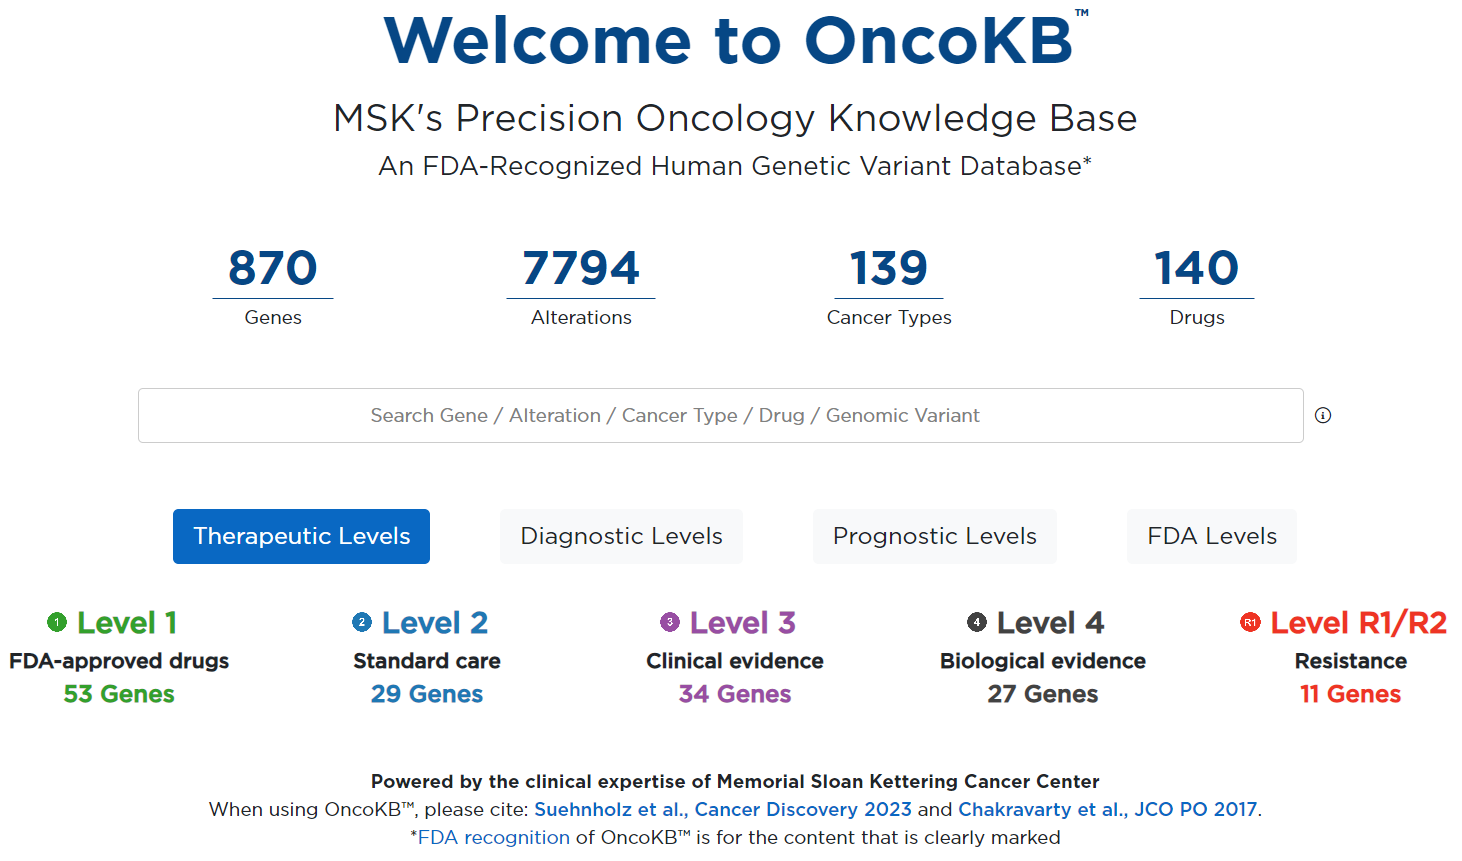
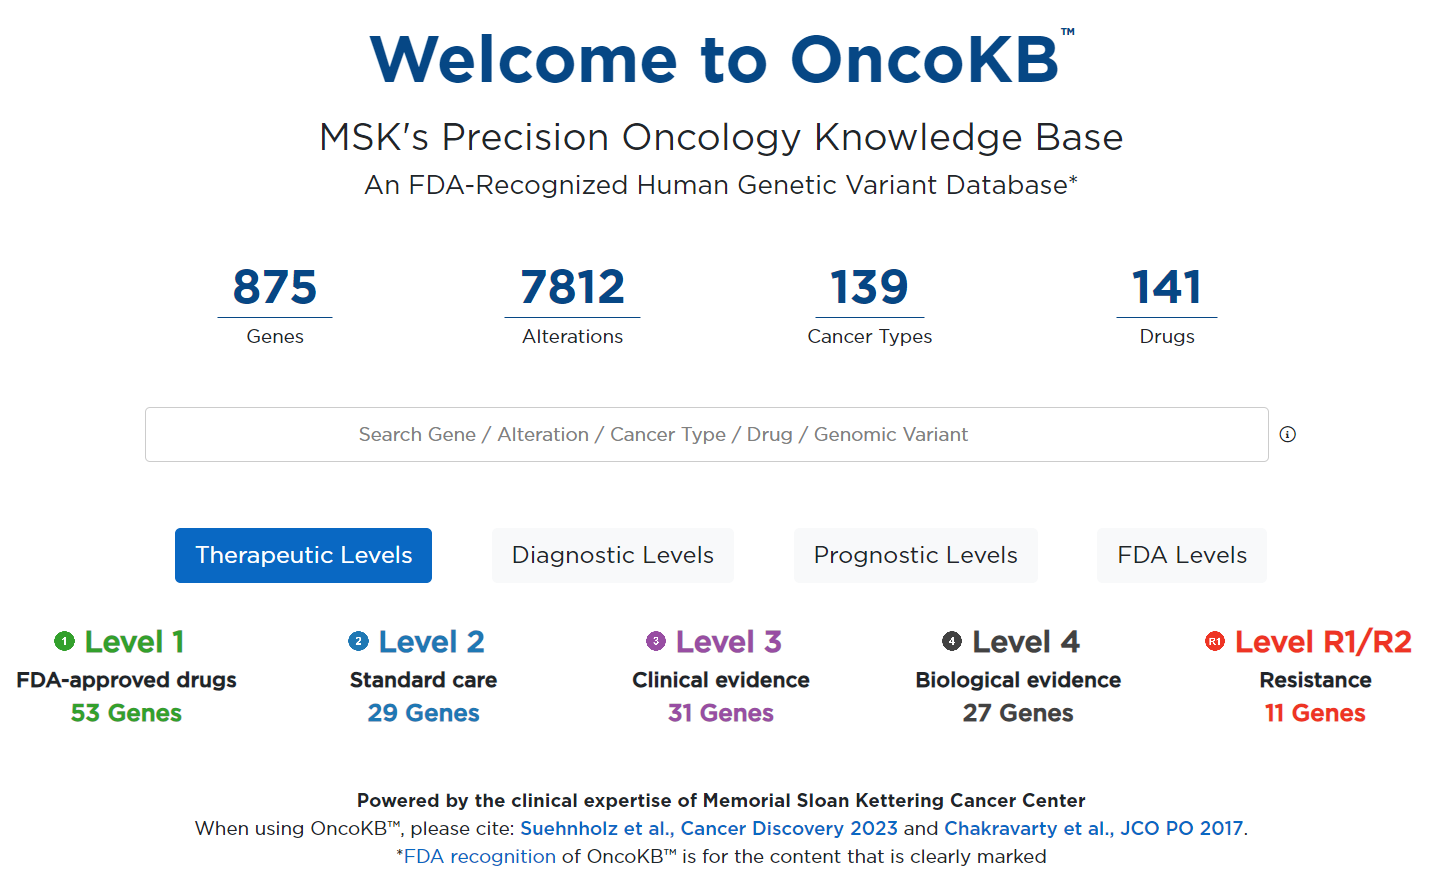
Update news

diff --git a/src/main/webapp/index.html b/src/main/webapp/index.html
@@ -15,7 +15,7 @@
     <meta name="twitter:site" content="@oncokb">
     <meta name="twitter:title" content="OncoKB™ - MSK's Precision Oncology Knowledge Base">
     <meta name="twitter:description" content="OncoKB™ is a precision oncology knowledge base developed at Memorial Sloan Kettering Cancer Center that contains biological and clinical information about genomic alterations in cancer.">
-    <meta name="twitter:image" content="https://www.oncokb.org/content/images/oncokb_summary.png?20240604">
+    <meta name="twitter:image" content="https://www.oncokb.org/content/images/oncokb_summary.png?20240702">
     <meta name="twitter:url" content="https://www.oncokb.org/">
 
     <meta property="og:site_name" content="OncoKB™">
@@ -23,7 +23,7 @@
     <meta property="og:url" content="https://www.oncokb.org/">
     <meta property="og:title" content="OncoKB™ - MSK's Precision Oncology Knowledge Base">
     <meta property="og:description" content="OncoKB™ is a precision oncology knowledge base developed at Memorial Sloan Kettering Cancer Center that contains biological and clinical information about genomic alterations in cancer.">
-    <meta property="og:image" content="https://www.oncokb.org/content/images/oncokb_summary.png?20240604">
+    <meta property="og:image" content="https://www.oncokb.org/content/images/oncokb_summary.png?20240702">
 
     <link rel="mask-icon" href="content/images/favicon/safari-pinned-tab.svg" color="#0968c3">
     <!-- Preload the customized fonts, so the html knows how to pain the page  -->

diff --git a/src/main/webapp/app/pages/newsPage/NewsPageContent.tsx b/src/main/webapp/app/pages/newsPage/NewsPageContent.tsx
@@ -261,7 +261,7 @@ const EVIDENCE_COLUMN_SEPARATOR = '; ';
 // https://stackoverflow.com/questions/41947168/is-it-possible-to-use-keyof-operator-on-literals-instead-of-interfaces
 
 export const NEWS_BY_DATE: { [date: string]: NewsData } = {
-  '06272024': {
+  '07022024': {
     priorityNews: [
       <span>
         Release of{' '}
@@ -420,7 +420,7 @@ export const NEWS_BY_DATE: { [date: string]: NewsData } = {
         ],
       },
     ],
-    newlyAddedGenes: ['LMNA', 'PRCC', 'UBA1', 'UBTF'],
+    newlyAddedGenes: ['LMNA', 'PRCC', 'UBA1', 'UBTF', 'RIOK2'],
   },
   '06042024': {
     priorityNews: [

diff --git a/src/main/webapp/app/pages/newsPage/NewsPage.tsx b/src/main/webapp/app/pages/newsPage/NewsPage.tsx
@@ -91,7 +91,7 @@ export default class NewsPage extends React.Component<{
             <CitationText />
           </div>
           <div className="mt-2">
-            <NewsList date={'06272024'} />
+            <NewsList date={'07022024'} />
             <NewsList date={'06042024'} />
             <NewsList date={'05012024'} />
             <NewsList date={'03212024'} />

diff --git a/src/main/webapp/app/config/constants.tsx b/src/main/webapp/app/config/constants.tsx
@@ -800,7 +800,7 @@ export type DataRelease = {
 };
 
 export const DATA_RELEASES: DataRelease[] = [
-  { date: '06272024', version: 'v4.18' },
+  { date: '07022024', version: 'v4.18' },
   { date: '06042024', version: 'v4.17' },
   { date: '05012024', version: 'v4.16' },
   { date: '03212024', version: 'v4.15' },
